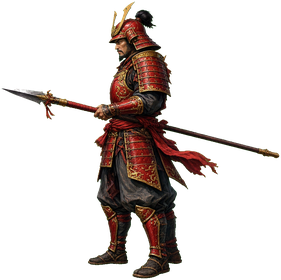
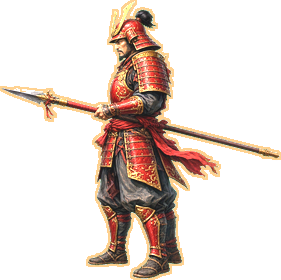
Brighten Shinobi sprites and harden side-view combat
Outline character art for fog-readable silhouettes, spawn enemies
on-camera from the right, null-safe HUD, clearer platform ledges.

Changed region(s): [[0.0, 0.0, 1.0, 1.0]]

diff --git a/ombre-du-dojo/game.js b/ombre-du-dojo/game.js
@@ -317,11 +317,16 @@
   }
 
   function showScreen(name) {
-    Object.entries(screens).forEach(([k, el]) => el.classList.toggle("hidden", k !== name));
+    Object.entries(screens).forEach(([k, el]) => {
+      if (el) el.classList.toggle("hidden", k !== name);
+    });
     const playing = name === null;
-    $("hud").classList.toggle("hidden", !playing);
-    $("controls").classList.toggle("hidden", !playing);
-    $("btn-pause").classList.toggle("hidden", !playing);
+    const hud = $("hud");
+    const controls = $("controls");
+    const pause = $("btn-pause");
+    if (hud) hud.classList.toggle("hidden", !playing);
+    if (controls) controls.classList.toggle("hidden", !playing);
+    if (pause) pause.classList.toggle("hidden", !playing);
   }
 
   function updateContinueBtn() {
@@ -400,7 +405,8 @@
   function spawnEnemy(type) {
     const lv = save.level;
     const sc = enemyScale(lv);
-    const x = cameraX + window.innerWidth + 80 + Math.random() * 40;
+    // Enter just past the right edge of the camera so they are visible quickly.
+    const x = Math.min(LEVEL_W - 60, cameraX + window.innerWidth * 0.92 + Math.random() * 40);
     const gy = groundYAt(x);
     const defs = {
       bandit: { w: 64, h: 112, hp: 24, dmg: 7, speed: 130, gold: 12, sprite: "bandit" },
@@ -449,7 +455,7 @@
     floatTexts = [];
     cameraX = 0;
     spawnQueue = buildSpawnQueue(save.level);
-    spawnTimer = 1;
+    spawnTimer = 0.35;
     clearTimer = 0;
     shake = 0;
     hitStop = 0;
@@ -460,12 +466,18 @@
 
   function updateHud() {
     if (!player) return;
-    $("hp-bar").style.transform = `scaleX(${Math.max(0, player.hp / player.maxHp)})`;
-    $("hp-text").textContent = `${Math.ceil(player.hp)}`;
-    $("gold-hud").textContent = `${save.gold}`;
-    $("level-label").textContent = isBossLevel(save.level) ? `Boss ${save.level}` : `Niv. ${save.level}`;
-    $("wave-label").textContent = `${enemies.filter((e) => e.hp > 0).length + spawnQueue.length}`;
-    $("weapon-chip").textContent = weaponStats().name;
+    const hpBar = $("hp-bar");
+    const hpText = $("hp-text");
+    const gold = $("gold-hud");
+    const level = $("level-label");
+    const wave = $("wave-label");
+    const weapon = $("weapon-chip");
+    if (hpBar) hpBar.style.transform = `scaleX(${Math.max(0, player.hp / player.maxHp)})`;
+    if (hpText) hpText.textContent = `${Math.ceil(player.hp)}`;
+    if (gold) gold.textContent = `${save.gold}`;
+    if (level) level.textContent = isBossLevel(save.level) ? `Boss ${save.level}` : `Niv. ${save.level}`;
+    if (wave) wave.textContent = `${enemies.filter((e) => e.hp > 0).length + spawnQueue.length}`;
+    if (weapon) weapon.textContent = weaponStats().name;
   }
 
   function upgradeCost(id) {
@@ -882,12 +894,14 @@
   }
 
   function drawPlatformsDebugOptional() {
-    // subtle ledge highlights so altimetry reads
+    // ledge highlights so platforms read against painted décor
     platformsWorld().forEach((p) => {
       const sx = p.x - cameraX;
-      ctx.fillStyle = "rgba(232,168,74,0.18)";
-      ctx.fillRect(sx, p.y, p.w, 6);
-      ctx.fillStyle = "rgba(255,255,255,0.12)";
+      ctx.fillStyle = "rgba(8,14,18,0.45)";
+      ctx.fillRect(sx, p.y + 2, p.w, 8);
+      ctx.fillStyle = "rgba(232,168,74,0.42)";
+      ctx.fillRect(sx, p.y, p.w, 5);
+      ctx.fillStyle = "rgba(255,236,190,0.55)";
       ctx.fillRect(sx, p.y, p.w, 2);
     });
   }
@@ -910,9 +924,10 @@
     const drawH = ent.h;
     if (spr) {
       const drawW = (spr.width / spr.height) * drawH;
+      // soft contact shadow + crisp sprite
       ctx.drawImage(spr, -drawW * 0.5, -drawH, drawW, drawH);
     } else {
-      ctx.fillStyle = "#222";
+      ctx.fillStyle = isPlayer ? "#3a4650" : "#6a3a28";
       ctx.fillRect(-ent.w * 0.3, -ent.h, ent.w * 0.6, ent.h);
     }
 
